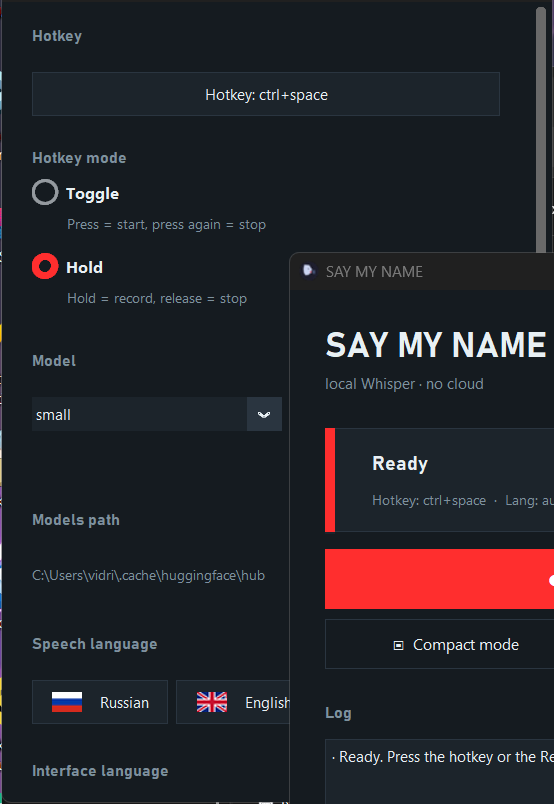
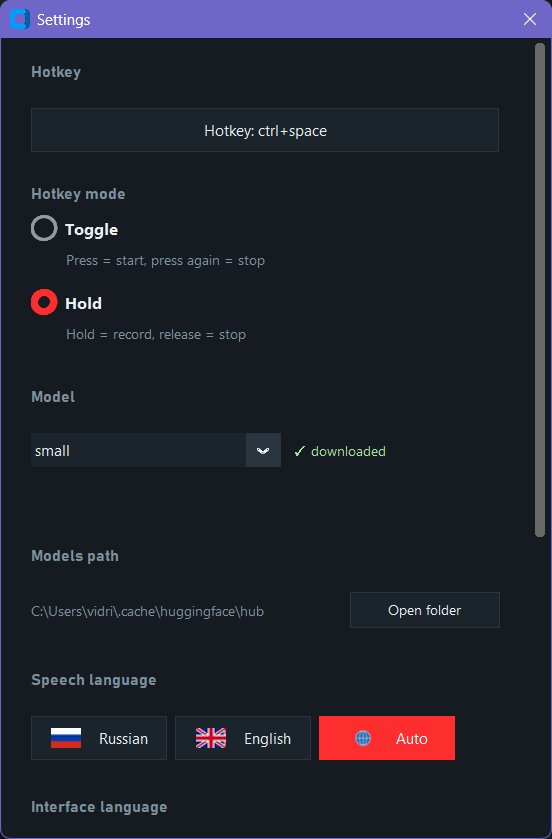
Fix header layout, support QR + buttons, version 2026.11.2
- Header: title+version on one row, tagline below
- Support window: local QR codes, wider copy button, no scroll
- License full text opens GitHub LICENSE
- Version bump per change

diff --git a/app/asr_ui.py b/app/asr_ui.py
@@ -749,8 +749,12 @@ class App(ctk.CTk):
     def _build_header(self) -> None:
         head = ctk.CTkFrame(self, fg_color="transparent")
         head.pack(fill="x", padx=28, pady=(26, 4))
+
+        # row 1: title left, version right
+        top = ctk.CTkFrame(head, fg_color="transparent")
+        top.pack(fill="x")
         self.lbl_title = ctk.CTkLabel(
-            head,
+            top,
             text=t("app_title"),
             font=ctk.CTkFont(family=DISPLAY, size=28, weight="bold"),
             anchor="w",
@@ -758,13 +762,15 @@ class App(ctk.CTk):
         )
         self.lbl_title.pack(side="left")
         self.lbl_version = ctk.CTkLabel(
-            head,
+            top,
             text=app_version.__version__,
             font=ctk.CTkFont(family=BODY, size=11),
             anchor="e",
             text_color=T["faint"],
         )
-        self.lbl_version.pack(side="right", padx=(8, 0))
+        self.lbl_version.pack(side="right")
+
+        # row 2: tagline under the title
         self.lbl_tag = ctk.CTkLabel(
             head,
             text=t("tagline"),
@@ -1780,7 +1786,7 @@ class SupportWindow(ctk.CTkToplevel):
         super().__init__(app)
         self.app = app
         self.title(t("support_title"))
-        self.geometry("440x480")
+        self.geometry("560x640")
         self.resizable(False, False)
         self.configure(fg_color=T["bg"])
         try:
@@ -1797,7 +1803,7 @@ class SupportWindow(ctk.CTkToplevel):
         )
         head.pack(padx=24, pady=(22, 12), anchor="w")
 
-        body = ctk.CTkScrollableFrame(self, fg_color="transparent", corner_radius=0)
+        body = ctk.CTkFrame(self, fg_color="transparent")
         body.pack(fill="both", expand=True, padx=20, pady=(0, 12))
 
         for w in self.WALLETS:
@@ -1820,6 +1826,27 @@ class SupportWindow(ctk.CTkToplevel):
             command=self._close,
         ).pack(side="right")
 
+    @staticmethod
+    def _qr_image(data: str, px: int = 88):
+        """Local QR (no external API) → CTkImage."""
+        try:
+            import qrcode
+            from PIL import Image
+
+            qr = qrcode.QRCode(
+                version=None,
+                error_correction=qrcode.constants.ERROR_CORRECT_M,
+                box_size=4,
+                border=2,
+            )
+            qr.add_data(data)
+            qr.make(fit=True)
+            pil = qr.make_image(fill_color="black", back_color="white").convert("RGB")
+            pil = pil.resize((px, px), Image.Resampling.NEAREST)
+            return ctk.CTkImage(light_image=pil, dark_image=pil, size=(px, px))
+        except Exception:
+            return None
+
     def _wallet_row(self, parent, w: dict) -> None:
         row = ctk.CTkFrame(
             parent, fg_color=T["panel"], corner_radius=0,
@@ -1830,10 +1857,18 @@ class SupportWindow(ctk.CTkToplevel):
         stripe = ctk.CTkLabel(
             row, text="", width=4, fg_color=w["color"], corner_radius=0
         )
-        stripe.pack(side="left", fill="y", padx=(0, 12), pady=10)
+        stripe.pack(side="left", fill="y", padx=(0, 10), pady=10)
+
+        qr_img = self._qr_image(w["address"], 88)
+        if qr_img is not None:
+            qr_lbl = ctk.CTkLabel(
+                row, text="", image=qr_img, width=92, height=92, fg_color="#FFFFFF",
+            )
+            qr_lbl.image = qr_img  # keep ref
+            qr_lbl.pack(side="right", padx=(8, 10), pady=10)
 
         col = ctk.CTkFrame(row, fg_color="transparent")
-        col.pack(side="left", fill="both", expand=True, padx=(0, 12), pady=10)
+        col.pack(side="left", fill="both", expand=True, padx=(0, 8), pady=10)
 
         ctk.CTkLabel(
             col,
@@ -1867,7 +1902,7 @@ class SupportWindow(ctk.CTkToplevel):
         ctk.CTkButton(
             actions,
             text=t("support_copy"),
-            width=110,
+            width=150,
             height=28,
             corner_radius=0,
             fg_color="transparent",
@@ -1888,7 +1923,7 @@ class SupportWindow(ctk.CTkToplevel):
             ctk.CTkButton(
                 actions,
                 text=t("support_open"),
-                width=80,
+                width=90,
                 height=28,
                 corner_radius=0,
                 fg_color=w["color"],

diff --git a/app/version.py b/app/version.py
@@ -13,7 +13,7 @@ import re
 import time
 from pathlib import Path
 
-__version__ = "2026.11.1"
+__version__ = "2026.11.2"
 
 # Plain-text file that contains only the latest version, e.g. "2026.11.2"
 # Change this URL when the project is published (GitHub raw / release asset).
